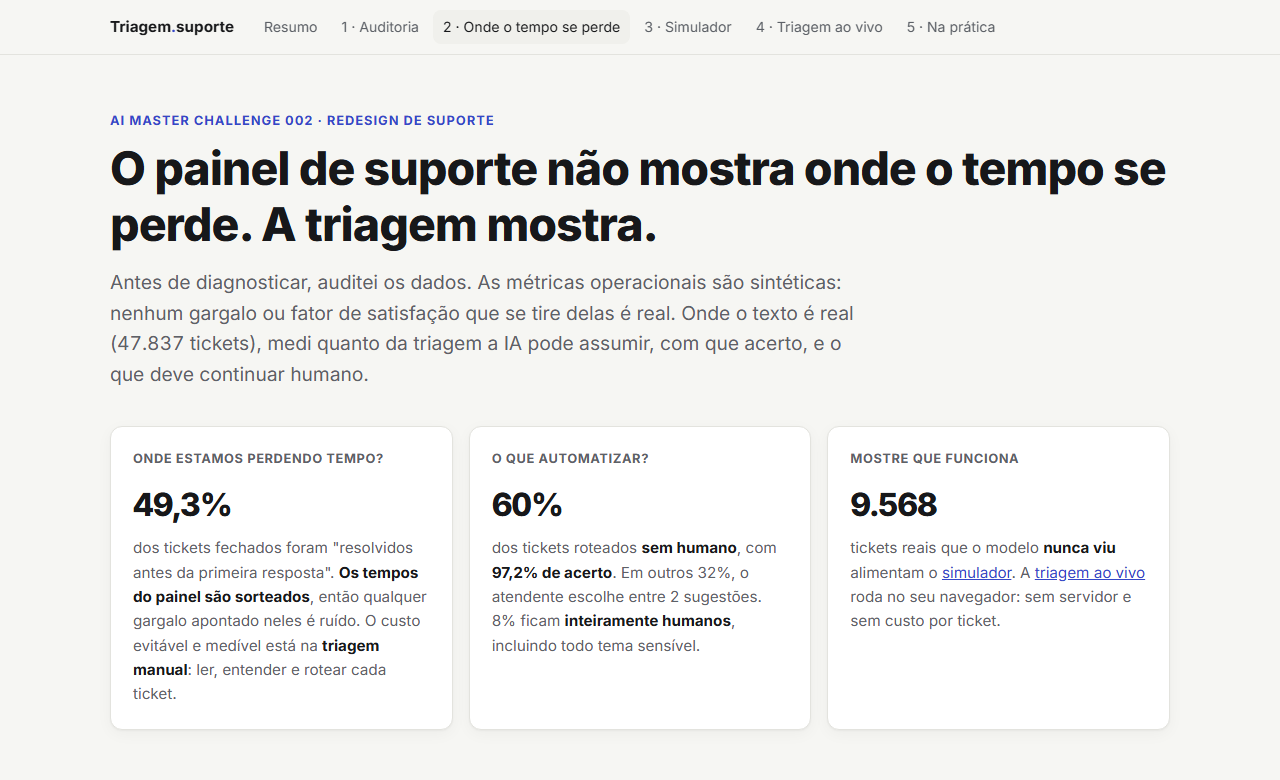
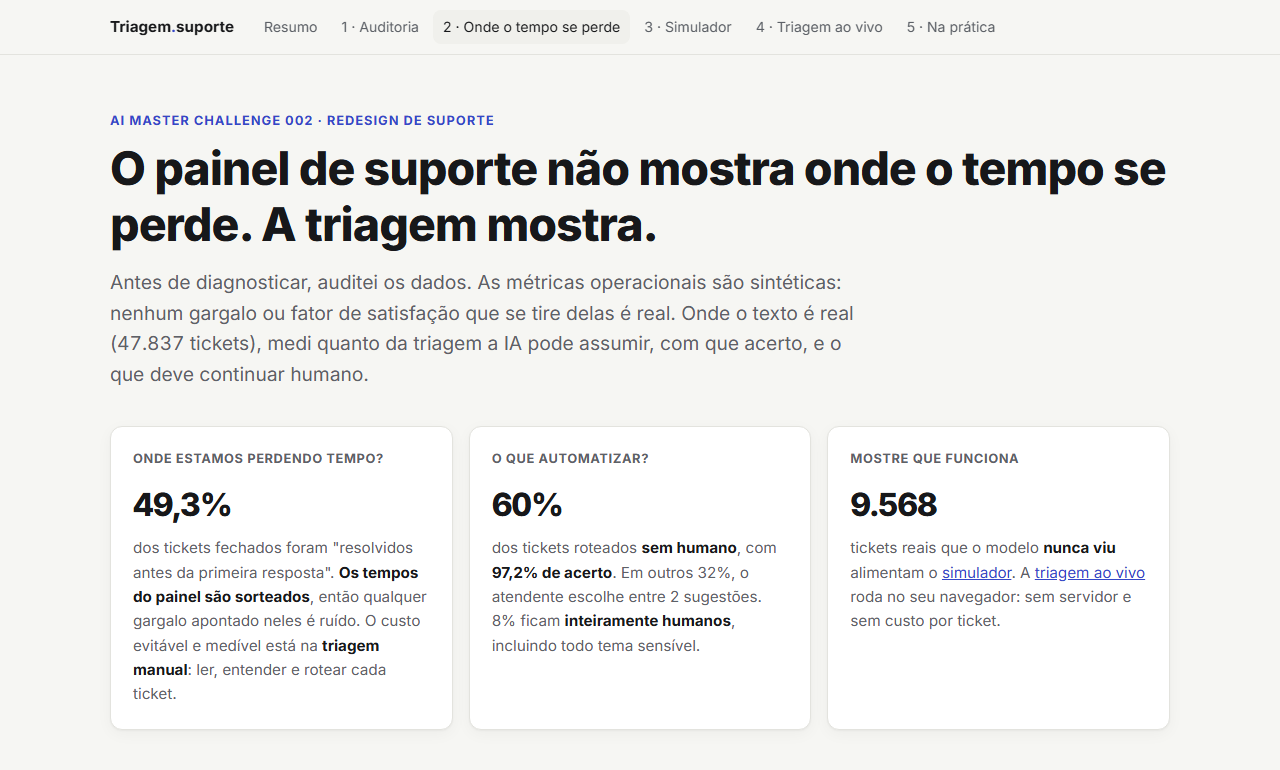
Benchmark Gemini x classificador: o LLM classifica pior e perde nas filas da casa
- 234 tickets de teste: linear 85,9%; Gemini 3.5 Flash-Lite 42-44% (só
  nomes), 58-59% (descrições), 62-64% (24 exemplos). McNemar p < 0,001.
  Perda concentrada em Hardware, Miscellaneous e HR Support.
- Temperatura 0 variou até 2,1 p.p. entre execuções: README reporta faixas.
- Gemini como 3a opinião na auditoria: nos 15 casos em que a IA julgou o
  rótulo errado, nunca escolheu o rótulo (ficou com o modelo em 10).
- Benchmark robusto: cache por rodada, sem espera após a última tentativa,
  modelos maiores opcionais (indisponíveis por 429/503 foram registrados).
- 03 não sobrescreve mais a planilha de auditoria; ECE calculado (0,012).
- App: card do benchmark, ?exemplo=N; capturas finais no process log.

diff --git a/submissions/pedro-polido/solution/app/js/app.js b/submissions/pedro-polido/solution/app/js/app.js
@@ -270,6 +270,14 @@ $('#examples').addEventListener('click', (ev) => {
   render();
 });
 
+// ?exemplo=N abre a página já com um exemplo carregado (útil para compartilhar um caso)
+const initial = examples[Number(new URLSearchParams(location.search).get('exemplo'))];
+if (initial) {
+  ticketEl.value = initial.texto;
+  ticketEl.dataset.rotulo = initial.rotulo;
+  render();
+}
+
 let timer;
 ticketEl.addEventListener('input', () => {
   delete ticketEl.dataset.rotulo;
@@ -413,6 +421,31 @@ $('#not-automate').innerHTML = [
   '<strong>Pedidos vazios:</strong> nenhum modelo acerta o que não foi dito. Uma resposta automática pede o que falta, e a triagem vem depois.',
   '<strong>Reclamação, cancelamento e reembolso:</strong> envolvem retenção e dinheiro. A IA redige, a pessoa envia. Os dados desses tickets são sintéticos, então esta é uma regra de política, não um número.',
 ].map((li) => `<li>${li}</li>`).join('');
+
+// Benchmark LLM × linear (só aparece se o pipeline 04 tiver rodado)
+const PROMPT_LABEL = { nomes: 'só os nomes das filas', descricoes: 'nomes + descrições das filas', exemplos: 'descrições + 24 exemplos' };
+fetch('data/llm_benchmark.json').then((r) => (r.ok ? r.json() : null)).then((b) => {
+  if (!b) return;
+  const pv = (p) => (p < 0.001 ? '< 0,001' : `= ${dec(p, 3)}`);
+  const rows = [
+    { label: 'Classificador linear (este app)', acerto: b.linear.acerto, sub: 'custo zero por ticket, milissegundos', color: 'var(--auto)' },
+    ...b.rodadas.map((r) => ({
+      label: `${r.modelo} · ${PROMPT_LABEL[r.prompt]}`,
+      acerto: r.acerto,
+      sub: `${int(r.tokens_por_ticket)} tokens/ticket · diferença para o linear: McNemar p ${pv(r.p_mcnemar)}`,
+      color: 'var(--accent)',
+    })),
+  ];
+  const el = $('#llm-bench');
+  el.innerHTML = `<div class="small"><strong>Medido: Gemini × classificador linear nos mesmos ${int(b.n)} tickets de teste</strong></div>
+    <div class="proba">${rows.map((r) => `
+      <div class="hbar" style="grid-template-columns:1fr 54px"><div><div class="tiny">${esc(r.label)}</div>
+        <div class="track"><div class="fill" style="width:${100 * r.acerto}%;background:${r.color}"></div></div>
+        <div class="tiny muted">${esc(r.sub)}</div></div><span class="val">${pct(r.acerto, 1)}</span></div>`).join('')}
+    </div>
+    ${b.modelos_indisponiveis?.length ? `<div class="tiny muted" style="margin-top:8px">Indisponíveis no momento do teste (503/429): ${esc(b.modelos_indisponiveis.join(', '))}.</div>` : ''}`;
+  el.hidden = false;
+}).catch(() => {});
 
 // Navegação: destaca a seção visível
 const links = [...document.querySelectorAll('.nav-links a')];

diff --git a/submissions/pedro-polido/solution/app/index.html b/submissions/pedro-polido/solution/app/index.html
@@ -247,14 +247,15 @@
           <div class="card">
             <h3>Onde entra o LLM (e onde não)</h3>
             <ul class="clean small" style="margin-top:12px">
-              <li><strong>Classificar:</strong> modelo linear. Acerta 97% na faixa automática, custa zero por ticket, responde em
-                milissegundos e explica cada decisão. Um LLM não conhece a taxonomia da casa: "HR Support" aqui inclui pedido de
-                acesso a servidor.</li>
+              <li><strong>Classificar:</strong> modelo linear. Medido abaixo: o Gemini acerta bem menos, e perde justamente
+                nas filas da casa (Hardware, Miscellaneous, HR Support), que só os rótulos históricos ensinam. O linear custa
+                zero por ticket, responde em milissegundos e explica cada decisão.</li>
               <li><strong>Traduzir e normalizar:</strong> LLM. Tickets em português entram no mesmo classificador.</li>
               <li><strong>Redigir resposta e pedir detalhes:</strong> LLM, sempre como rascunho que o atendente aprova.</li>
               <li><strong>Responder direto ao cliente:</strong> não. Todo texto gerado passa pelo atendente, e a taxa de edição
                 dos rascunhos é a métrica que decide se o LLM está ajudando.</li>
             </ul>
+            <div id="llm-bench" hidden style="margin-top:18px"></div>
           </div>
         </div>
 

diff --git a/submissions/pedro-polido/solution/pipeline/04_benchmark_llm.py b/submissions/pedro-polido/solution/pipeline/04_benchmark_llm.py
@@ -13,6 +13,7 @@ informado, para checar se um modelo maior muda a conclusão. Comparação paread
 Requer GEMINI_API_KEY no .env da raiz do repositório.
 Uso: python 04_benchmark_llm.py [n_amostra]      Saída: app/data/llm_benchmark.json
 """
+import hashlib
 import json
 import os
 import sys
@@ -27,12 +28,17 @@ from statsmodels.stats.contingency_tables import mcnemar
 from sklearn.linear_model import LogisticRegression
 from sklearn.model_selection import train_test_split
 
-from common import IT_TICKETS_CSV, SEED, SUBMISSION, load_env, save_json
+from common import IT_TICKETS_CSV, REPO_ROOT, SEED, SUBMISSION, load_env, save_json
 
 load_env()
 KEY = os.environ.get("GEMINI_API_KEY")
 MAIN_MODEL = "gemini-3.5-flash-lite"
-STRONG_MODEL = ("gemini-3.5-flash", {"thinkingBudget": 0})
+# Modelo maior para a checagem: o primeiro que responder. Os flash maiores alternam 503 (alta demanda) e 429 (cota).
+STRONG_MODELS = [("gemini-3.5-flash", {"thinkingBudget": 0}), ("gemini-3.6-flash", {"thinkingLevel": "low"}),
+                 ("gemini-flash-latest", {"thinkingBudget": 0})]
+# Cada rodada concluída fica em cache: uma falha no meio não joga fora as rodadas anteriores.
+# datasets/ já é ignorado pelo .gitignore do repositório.
+CACHE = REPO_ROOT / "datasets" / ".cache_llm"
 N_SAMPLE = int(sys.argv[1]) if len(sys.argv) > 1 else 240
 BATCH = 20           # tickets por requisição
 PAUSE_S = 4.0        # respeita o limite de requisições por minuto da camada gratuita
@@ -76,7 +82,7 @@ SUFFIX = ("\n\nTickets are preprocessed (lowercase, no punctuation, stopwords re
           "Answer with a JSON array with one queue name per ticket, in order.")
 
 
-def gemini(model, thinking, system, tickets):
+def gemini(model, thinking, system, tickets, attempts=6):
     config = {"temperature": 0, "responseMimeType": "application/json",
               "responseSchema": {"type": "ARRAY", "items": {"type": "STRING", "enum": CLASSES}}}
     if thinking:
@@ -89,7 +95,7 @@ def gemini(model, thinking, system, tickets):
     req = urllib.request.Request(
         f"https://generativelanguage.googleapis.com/v1beta/models/{model}:generateContent",
         data=json.dumps(body).encode(), headers={"Content-Type": "application/json", "x-goog-api-key": KEY})
-    for attempt in range(6):
+    for attempt in range(attempts):
         try:
             t0 = time.time()
             with urllib.request.urlopen(req, timeout=180) as r:
@@ -100,31 +106,32 @@ def gemini(model, thinking, system, tickets):
                 raise ValueError(f"{len(labels)} rótulos para {len(tickets)} tickets")
             return labels, data.get("usageMetadata", {}), time.time() - t0
         except (urllib.error.URLError, TimeoutError, ValueError, KeyError) as e:
+            if attempt == attempts - 1:
+                raise RuntimeError(f"{model} falhou {attempts} vezes seguidas: {str(e)[:80]}") from e
             wait = 15 * 2 ** attempt  # 503 de alta demanda e 429 de cota são transitórios
             print(f"   {model}: tentativa {attempt + 1} falhou ({str(e)[:80]}); nova em {wait}s", flush=True)
             time.sleep(wait)
-    raise RuntimeError(f"{model} falhou 6 vezes seguidas")
 
 
-def run(model, thinking, system, docs):
+def run(model, thinking, system, docs, attempts=6):
+    key = hashlib.sha256(json.dumps([model, thinking, system, docs]).encode()).hexdigest()[:16]
+    cache_file = CACHE / f"{model}_{key}.json"
+    if cache_file.exists():
+        c = json.loads(cache_file.read_text(encoding="utf-8"))
+        return np.array(c["labels"]), c["tokens"], c["seconds"]
     labels, tokens, seconds = [], 0, 0.0
     for i in range(0, len(docs), BATCH):
-        out, usage, dt = gemini(model, thinking, system, docs[i:i + BATCH])
+        out, usage, dt = gemini(model, thinking, system, docs[i:i + BATCH], attempts)
         labels += out
         tokens += usage.get("totalTokenCount", 0)
         seconds += dt
         time.sleep(PAUSE_S)
+    CACHE.mkdir(parents=True, exist_ok=True)
+    cache_file.write_text(json.dumps({"labels": labels, "tokens": tokens, "seconds": seconds}), encoding="utf-8")
     return np.array(labels), tokens, seconds
 
 
-y = sample["Topic_group"].values
-docs = sample["Document"].tolist()
-linear_ok = linear_pred == y
-results = {"n": len(sample), "linear": {"acerto": float(linear_ok.mean())}, "rodadas": []}
-print(f"{len(sample)} tickets | classificador linear: {linear_ok.mean():.1%}", flush=True)
-plan = [(MAIN_MODEL, None, name) for name in PROMPTS] + [(STRONG_MODEL[0], STRONG_MODEL[1], "exemplos")]
-for model, thinking, name in plan:
-    pred, tokens, seconds = run(model, thinking, PROMPTS[name], docs)
+def evaluate(model, name, pred, tokens, seconds):
     ok = pred == y
     # McNemar pareado: só importam os tickets em que um acerta e o outro erra
     table = [[int((ok & linear_ok).sum()), int((ok & ~linear_ok).sum())],
@@ -134,9 +141,30 @@ for model, thinking, name in plan:
          "so_llm_acerta": table[0][1], "so_linear_acerta": table[1][0],
          "por_fila": {c: float(ok[y == c].mean()) for c in CLASSES},
          "concorda_com_linear": float((pred == linear_pred).mean())}
-    results["rodadas"].append(r)
     print(f"  {model:22s} {name:10s} acerto {r['acerto']:.1%} (linear {linear_ok.mean():.1%}, McNemar p = {r['p_mcnemar']:.3f}) | "
           f"{r['tokens_por_ticket']:.0f} tokens/ticket | {r['segundos_por_ticket']:.2f} s/ticket", flush=True)
+    return r
+
+
+y = sample["Topic_group"].values
+docs = sample["Document"].tolist()
+linear_ok = linear_pred == y
+results = {"n": len(sample), "linear": {"acerto": float(linear_ok.mean())}, "rodadas": []}
+print(f"{len(sample)} tickets | classificador linear: {linear_ok.mean():.1%}", flush=True)
+for name in PROMPTS:
+    results["rodadas"].append(evaluate(MAIN_MODEL, name, *run(MAIN_MODEL, None, PROMPTS[name], docs)))
+
+# Checagem com modelo maior, no prompt mais informado. Indisponibilidade vira registro, não queda do script.
+failures = []
+for model, thinking in STRONG_MODELS:
+    try:
+        # Modelo opcional: 3 tentativas bastam para saber se está disponível agora
+        results["rodadas"].append(evaluate(model, "exemplos", *run(model, thinking, PROMPTS["exemplos"], docs, attempts=3)))
+        break
+    except RuntimeError as e:
+        failures.append(model)
+        print(f"  {model}: indisponível ({e}); tentando o próximo", flush=True)
+results["modelos_indisponiveis"] = failures
 
 # Terceira opinião nos 40 casos da auditoria de rótulos (o LLM não vê rótulo nem previsão do modelo)
 audit_path = SUBMISSION / "process-log" / "auditoria-rotulos" / "candidatos.csv"

diff --git a/submissions/pedro-polido/solution/pipeline/03_triagem_dataset2.py b/submissions/pedro-polido/solution/pipeline/03_triagem_dataset2.py
@@ -114,6 +114,12 @@ classes = list(clf.classes_)
 y_tr = train["Topic_group"].map(classes.index).values
 
 
+def expected_calibration_error(conf, ok, bins=10):
+    """Distância média entre a confiança declarada e o acerto real, em 10 faixas: 0 = calibração perfeita."""
+    idx = np.minimum((conf * bins).astype(int), bins - 1)
+    return sum((idx == b).mean() * abs(conf[idx == b].mean() - ok[idx == b].mean()) for b in range(bins) if (idx == b).any())
+
+
 def lanes_curve(proba, y):
     conf = proba.max(1)
     order = np.argsort(-proba, 1)
@@ -201,7 +207,7 @@ operacao = {
     "acerto_por": acc_by,
     "confusao": confusion_matrix(y_te, pred, labels=range(len(classes))),
     "curva": curve, "acerto_local": local,
-    "teste": {"n": len(test), "acerto": ok1.mean(), "top2": ok2.mean()},
+    "teste": {"n": len(test), "acerto": ok1.mean(), "top2": ok2.mean(), "ece": expected_calibration_error(conf, ok1)},
 }
 print(f"Cadeias de e-mail: {df['thread'].mean():.1%} | pedidos vazios: {df['info_poor'].mean():.1%} | "
       f"sensíveis: {df['sensitive'].mean():.1%} | urgentes: {df['urgent'].mean():.1%} | "
@@ -269,11 +275,15 @@ save_json("exemplos.json", examples)
 # Auditoria de rótulos: divergências em que o modelo tinha >= 90% de confiança
 disagree = test_eval[(conf >= 0.9) & ~ok1].assign(modelo=[classes[p] for p in pred[(conf >= 0.9) & ~ok1]])
 print(f"Divergências com confiança >= 0,9 no teste: {len(disagree)} ({len(disagree) / (conf >= 0.9).sum():.1%} da faixa)")
-out = SUBMISSION / "process-log" / "auditoria-rotulos"
-out.mkdir(parents=True, exist_ok=True)
-(disagree.sample(40, random_state=SEED)
- .assign(conf=lambda d: d["conf"].round(3), veredito_ia="", justificativa_ia="", veredito_pedro="")
- .rename(columns={"Document": "texto", "Topic_group": "rotulo"})
- [["texto", "rotulo", "modelo", "conf", "veredito_ia", "justificativa_ia", "veredito_pedro"]]
- .to_csv(out / "candidatos.csv", index_label="id", encoding="utf-8-sig"))
-print(f"-> process-log/auditoria-rotulos/candidatos.csv (40 de {len(disagree)})")
+audit_file = SUBMISSION / "process-log" / "auditoria-rotulos" / "candidatos.csv"
+if audit_file.exists():
+    # O arquivo guarda os vereditos da IA, do Gemini e do Pedro: nunca sobrescrever numa nova rodada.
+    print(f"   {audit_file.name} já existe, com vereditos: mantido como está")
+else:
+    audit_file.parent.mkdir(parents=True, exist_ok=True)
+    (disagree.sample(40, random_state=SEED)
+     .assign(conf=lambda d: d["conf"].round(3), veredito_ia="", justificativa_ia="", veredito_pedro="")
+     .rename(columns={"Document": "texto", "Topic_group": "rotulo"})
+     [["texto", "rotulo", "modelo", "conf", "veredito_ia", "justificativa_ia", "veredito_pedro"]]
+     .to_csv(audit_file, index_label="id", encoding="utf-8-sig"))
+    print(f"-> process-log/auditoria-rotulos/candidatos.csv (40 de {len(disagree)})")

diff --git a/submissions/pedro-polido/process-log/README.md b/submissions/pedro-polido/process-log/README.md
@@ -11,7 +11,7 @@
 |---|---|
 | Decisões do Pedro que definiram a entrega | 4 (desafio, narrativa, LLM, formato do protótipo) + revisão dos rótulos |
 | Hipóteses da IA refutadas pelos dados | 4 |
-| Erros da IA pegos pela verificação antes de entrar na entrega | 11 ([lista](#erros-da-ia-pegos-pela-verificação)) |
+| Erros da IA pegos pela verificação antes de entrar na entrega | 13 ([lista](#erros-da-ia-pegos-pela-verificação)) |
 | Verificação automática do protótipo | 308/308 textos com a mesma fila e a mesma faixa em Python e no navegador |
 
 ---
@@ -116,7 +116,10 @@ Outras decisões desta etapa:
   dos dois. Ou seja, cerca de 1/3 dos "erros" de alta confiança são erros do rótulo.
 - **Revisão do Pedro:** coluna `veredito_pedro` em [`candidatos.csv`](auditoria-rotulos/candidatos.csv).
   _[PEDRO: em quantos casos discordou da IA e por quê]_
-- **Terceira opinião (Gemini):** _[resultado do `04_benchmark_llm.py`]_
+- **Terceira opinião (Gemini 3.5 Flash-Lite, sem ver o rótulo nem a previsão do modelo):** nos 15 casos em que a IA
+  julgou o rótulo errado, o Gemini **nunca** escolheu o rótulo e ficou com a fila do modelo em 10. Nos 13 em que julgou
+  o rótulo certo, ficou com o rótulo em 8. Concordância nos 28 casos categóricos: 64%. Em 38% dos 40 casos ele escolheu
+  uma terceira fila, o que confirma o quanto esses tickets são ambíguos.
 
 ## 9. Honestidade na escrita
 
@@ -127,7 +130,35 @@ Outras decisões desta etapa:
 
 ## 10. LLM × classificador (`04_benchmark_llm.py`)
 
-_[resultado pendente: roda quando a chave do Gemini estiver no `.env`]_
+**Antes de rodar, dois episódios:**
+- **A chave foi salva como `.env.md`.** O script não achou a variável e o Google respondeu 403. A investigação foi feita
+  sem exibir a chave, só nomes de variáveis e tamanhos. Além de não carregar, havia um risco: a regra local do git
+  cobria `.env`, não `.env.md`, e um `git add` descuidado publicaria a chave num repositório público. O arquivo foi
+  renomeado e a regra passou a cobrir `.env*`.
+- **Erro da IA: modelo descontinuado.** O padrão do benchmark **e da função do app** era `gemini-2.5-flash`, que devolve
+  404 para chaves novas ("no longer available to new users"). O protótipo teria quebrado no deploy. Um teste rápido com
+  7 modelos pegou isso e mostrou a troca: `gemini-3.5-flash` leva ~25 s por causa do raciocínio (369 tokens de
+  "pensamento" para 3 tickets); `gemini-3.5-flash-lite` acerta os mesmos casos em ~1 s. O app ficou com o flash-lite.
+
+**Resultado** (234 tickets de teste, os mesmos para todos; logs brutos em [`benchmark-llm/`](benchmark-llm/)):
+
+| Abordagem | 1ª execução | Final | Tokens/ticket |
+|---|---|---|---|
+| Classificador linear | 85,9% | 85,9% | 0 |
+| Gemini 3.5 Flash-Lite, só nomes das filas | 44,0% | 42,3% | 48 |
+| + descrições das filas | 59,0% | 58,5% | 53 |
+| + 24 exemplos rotulados | 62,0% | 64,1% | 89 |
+
+- **Temperatura 0 não garante repetição:** as duas execuções variaram até 2,1 p.p. Por isso o README reporta faixas, e
+  o cache por rodada deixa os números finais reproduzíveis.
+- **Onde o LLM perde:** nas filas cujo significado é da casa. Hardware 47% contra 89% do linear, Miscellaneous 50%
+  contra 76%, HR Support 64% contra 87%. Nas filas autoexplicativas (Access, Storage, Internal Project), fica perto.
+- **Modelos maiores indisponíveis:** `gemini-3.5-flash`, `3.6-flash` e `flash-latest` devolveram 429/503 nas três
+  execuções. Isso ficou registrado no resultado, e não derrubou o script.
+- **Dois defeitos de engenharia pegos durante a execução** (erro 13 da lista, e um desperdício): os resultados só eram
+  gravados no fim, e o script ainda esperava 8 minutos depois da última tentativa falha antes de desistir. Correção:
+  cache por rodada (uma nova execução pula o que já terminou), nenhuma espera depois da última tentativa, e 3
+  tentativas (não 6) para os modelos opcionais.
 
 ---
 
@@ -146,3 +177,5 @@ _[resultado pendente: roda quando a chave do Gemini estiver no `.env`]_
 | 9 | Exemplo "Senha bloqueada" mostrando um caso de divergência | clique em cada exemplo, leitura do resultado | 7 |
 | 10 | Texto em português roteado sozinho com 100% de confiança | teste manual com frase em português | 7 |
 | 11 | Contribuições da IA atribuídas ao Pedro no README | releitura da seção antes do commit | 9 |
+| 12 | Modelo padrão do app e do benchmark já descontinuado (`gemini-2.5-flash`) | teste de fumaça com 7 modelos antes de rodar | 10 |
+| 13 | Benchmark só gravava resultados no fim: uma falha na última rodada jogaria fora as anteriores | o modelo maior começou a devolver 503 e 429 em sequência | 10 |

diff --git a/submissions/pedro-polido/README.md b/submissions/pedro-polido/README.md
@@ -21,7 +21,8 @@ exatamente isso que uma IA entrega quando recebe o brief sozinha. Por isso entre
    (+3 h num segmento canal × prioridade é detectado em 82% das simulações);
 2. a **automação medida onde o texto é real** (47.837 tickets de TI): 60% dos tickets roteados sem humano com 97,2% de
    acerto, 32% com 2 sugestões para o atendente, 8% sempre humanos;
-3. um **protótipo rodando** com essa política, o simulador de ROI e a triagem ao vivo.
+3. um **protótipo rodando** com essa política, o simulador de ROI e a triagem ao vivo, com o LLM (Gemini) só onde ele
+   ganha. Medido nos mesmos tickets, ele classifica pior (42–64% contra 85,9%), mas traduz e redige bem.
 
 **Recomendação principal:** instrumentar o suporte para medir tempo de verdade e começar pela triagem, em modo sombra.
 Com premissas conservadoras, são ~90 h/mês de triagem liberadas.
@@ -85,7 +86,24 @@ primeiras, calibrado: ECE 0,012)
 | Triagem humana | < 48%, tema sensível, ou texto fora do padrão | 7,7% | — |
 | Pedir detalhes | pedido sem conteúdo | 0,6% | — |
 
-**5. LLM:** _RESULTADO_DO_BENCHMARK_
+**5. LLM × classificador** (mesmos 234 tickets de teste, [`04_benchmark_llm.py`](solution/pipeline/04_benchmark_llm.py),
+logs brutos em [`process-log/benchmark-llm/`](process-log/benchmark-llm/))
+
+| Abordagem | Acerto | Tokens por ticket |
+|---|---|---|
+| **Classificador linear (o do app)** | **85,9%** | 0 |
+| Gemini 3.5 Flash-Lite, só os nomes das filas | 42–44% | 48 |
+| + descrição de cada fila | 58–59% | 53 |
+| + 24 exemplos rotulados (few-shot) | 62–64% | 89 |
+
+As faixas vêm de duas execuções com temperatura 0 (o LLM não é determinístico). Todas as diferenças para o linear têm
+McNemar p < 0,001. A perda se concentra nas **filas da casa**: Hardware 47% contra 89%, Miscellaneous 50% contra 76%, HR
+Support 64% contra 87%. Nas filas de nome autoexplicativo (Access, Storage, Internal Project), o LLM com exemplos fica
+perto do linear. Conclusão: classificar é trabalho do modelo treinado com os rótulos da casa; o LLM entra na tradução e
+no rascunho, testados de ponta a ponta no app.
+
+Na auditoria de rótulos, o Gemini foi uma checagem independente: nos 15 casos em que a IA julgou o rótulo errado, ele
+(sem ver rótulo nem previsão) **nunca** escolheu o rótulo e ficou com a fila do modelo em 10.
 
 **6. ROI** (premissas editáveis no simulador: 2.500 tickets/mês, 3 min de triagem manual, 1 min assistida, 15 min de
 retrabalho por erro, R$ 40/h): **~91 h/mês liberadas, ~R$ 44 mil/ano, 42 tickets/mês na fila errada**. É um ganho
@@ -125,6 +143,9 @@ modesto em reais. O ganho provável maior é o tempo de espera na fila de triage
 - **Português depende do LLM** (tradução antes do classificador). Um modelo treinado com tickets em português seria o
   passo seguinte.
 - **O limite de uso da função do Gemini é por instância** (melhor esforço). Em produção, seria preciso um gateway com cota.
+- **O benchmark de LLM usou o Flash-Lite.** Os modelos maiores (`gemini-3.5-flash`, `3.6-flash`, `flash-latest`) estavam
+  indisponíveis por cota ou demanda (429/503) na hora do teste. Um modelo maior pode reduzir a diferença, e o script já
+  tenta rodá-los sozinho.
 
 ---
 
